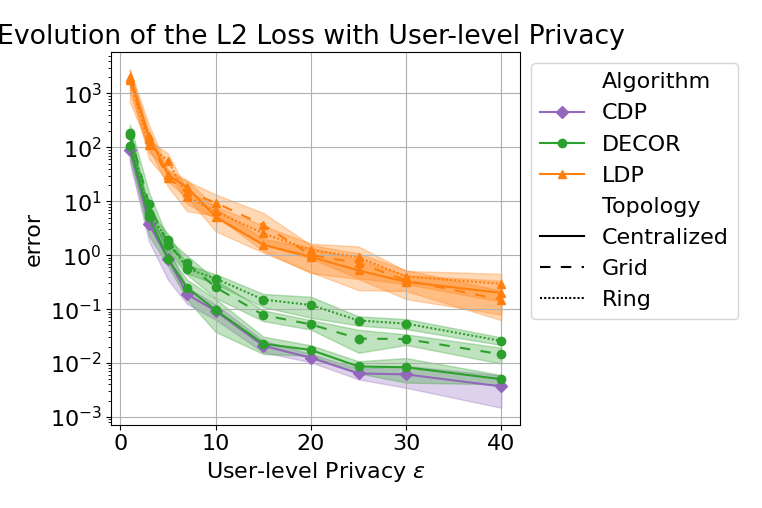
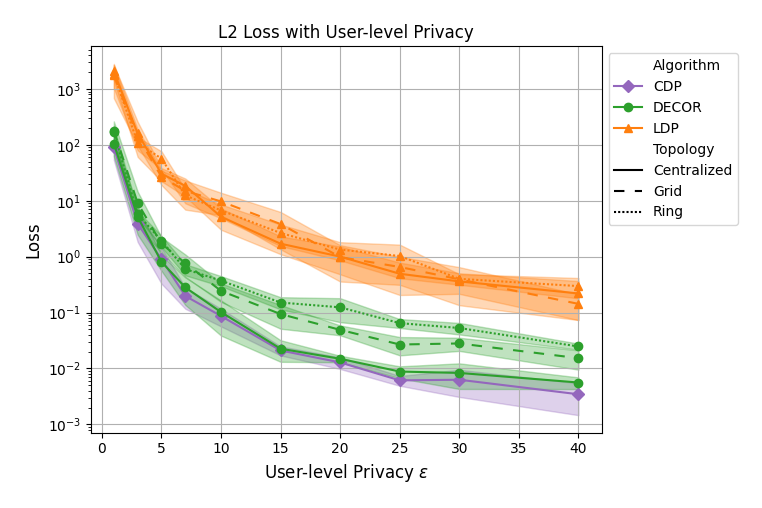
some updates on quadratics plot

diff --git a/utils/plotting.py b/utils/plotting.py
@@ -225,10 +225,12 @@ def loss_epsilon(topology_names, epsilon_grid, A, B, num_nodes, num_dim, gamma, 
         ax.fill_between(epsilon_grid, np.mean(errors_ldp, axis = 0) - np.std(errors_ldp, axis = 0), np.mean(errors_ldp, axis = 0) + np.std(errors_ldp, axis = 0), alpha = 0.3, color = 'tab:orange')
     
 
-    ax.set_xlabel('User-level Privacy $\epsilon$')
-    ax.set_ylabel('error')
-    ax.set_title(f"Evolution of the L2 Loss with User-level Privacy ")
+    ax.set_xlabel('User-level Privacy $\epsilon$', fontsize=12)
+    ax.set_ylabel('Loss', fontsize=12)
+    ax.set_title(f"L2 Loss with User-level Privacy", fontsize=12)
     ax.grid(True)
+    ax.tick_params(axis='y', which = 'both', labelsize=10)
+    ax.tick_params(axis='x', which = 'both', labelsize=10)
 
     # Legend
     legend_hanles = []
@@ -240,7 +242,7 @@ def loss_epsilon(topology_names, epsilon_grid, A, B, num_nodes, num_dim, gamma, 
     legend_hanles.append(plt.Line2D([], [], label='Centralized', linestyle = topo_to_style['centralized'], color = 'k'))
     legend_hanles.append(plt.Line2D([], [], label='Grid', linestyle = topo_to_style['grid'], color = 'k'))
     legend_hanles.append(plt.Line2D([], [], label='Ring', linestyle = topo_to_style['ring'], color = 'k'))
-    plt.legend(handles = legend_hanles, loc='upper left', bbox_to_anchor=(1, 1))
+    plt.legend(handles = legend_hanles, loc='upper left', bbox_to_anchor=(1, 1), fontsize = 10)
     
     folder_path = './loss_epsilon'
     if not os.path.exists(folder_path):
